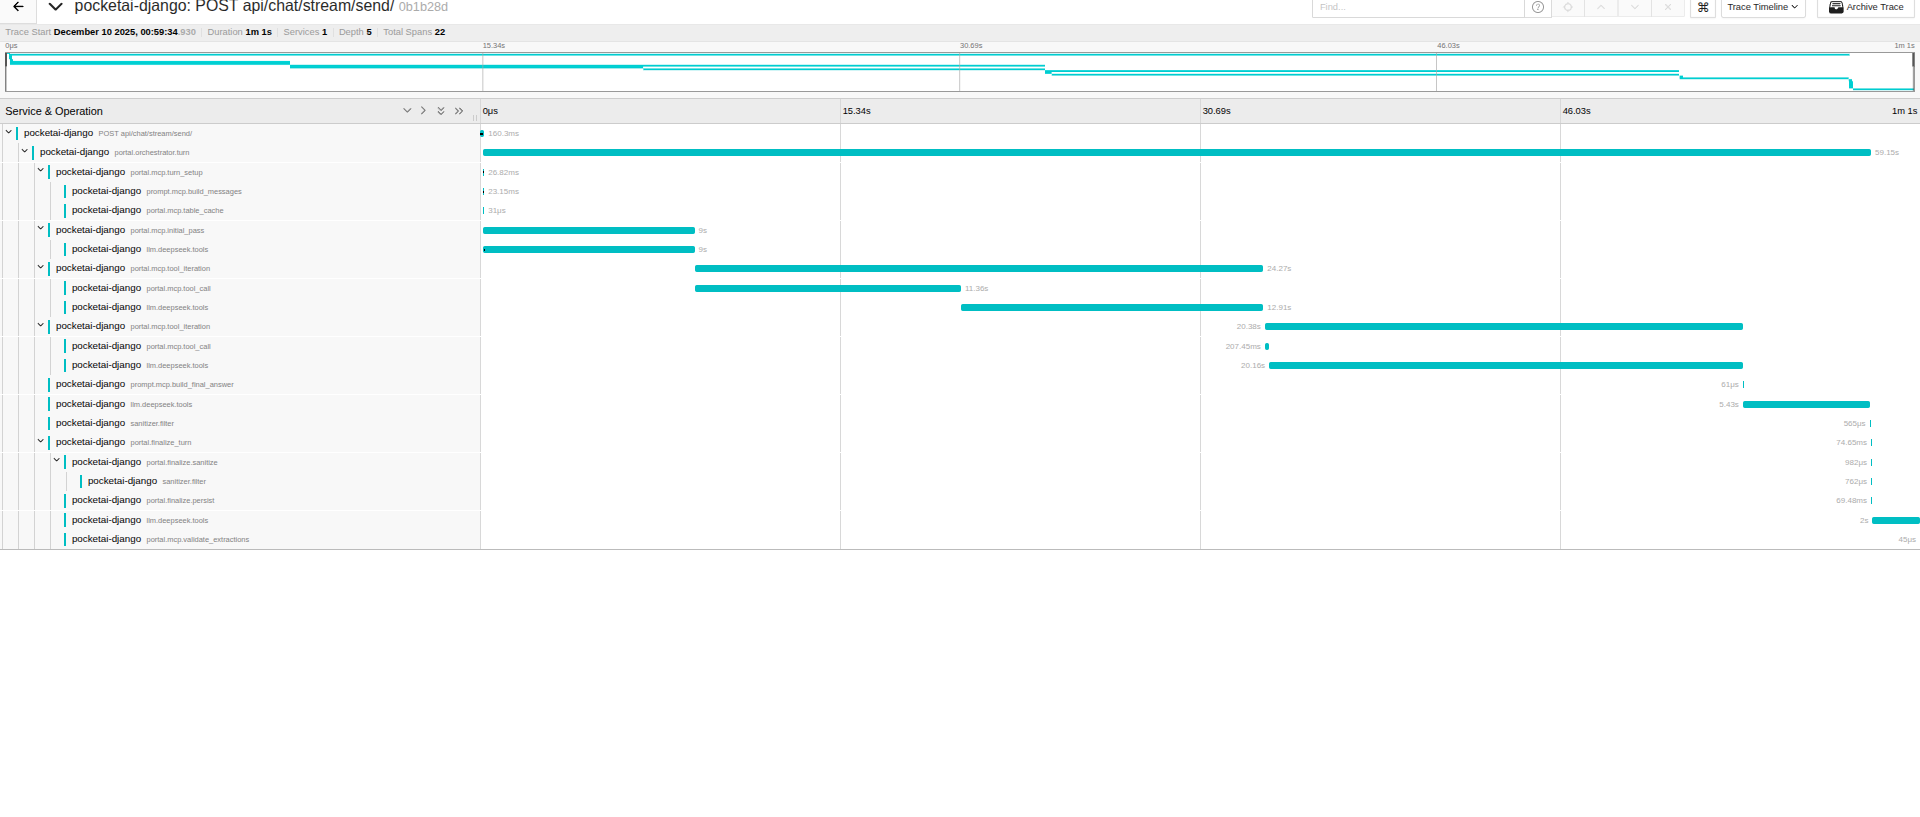
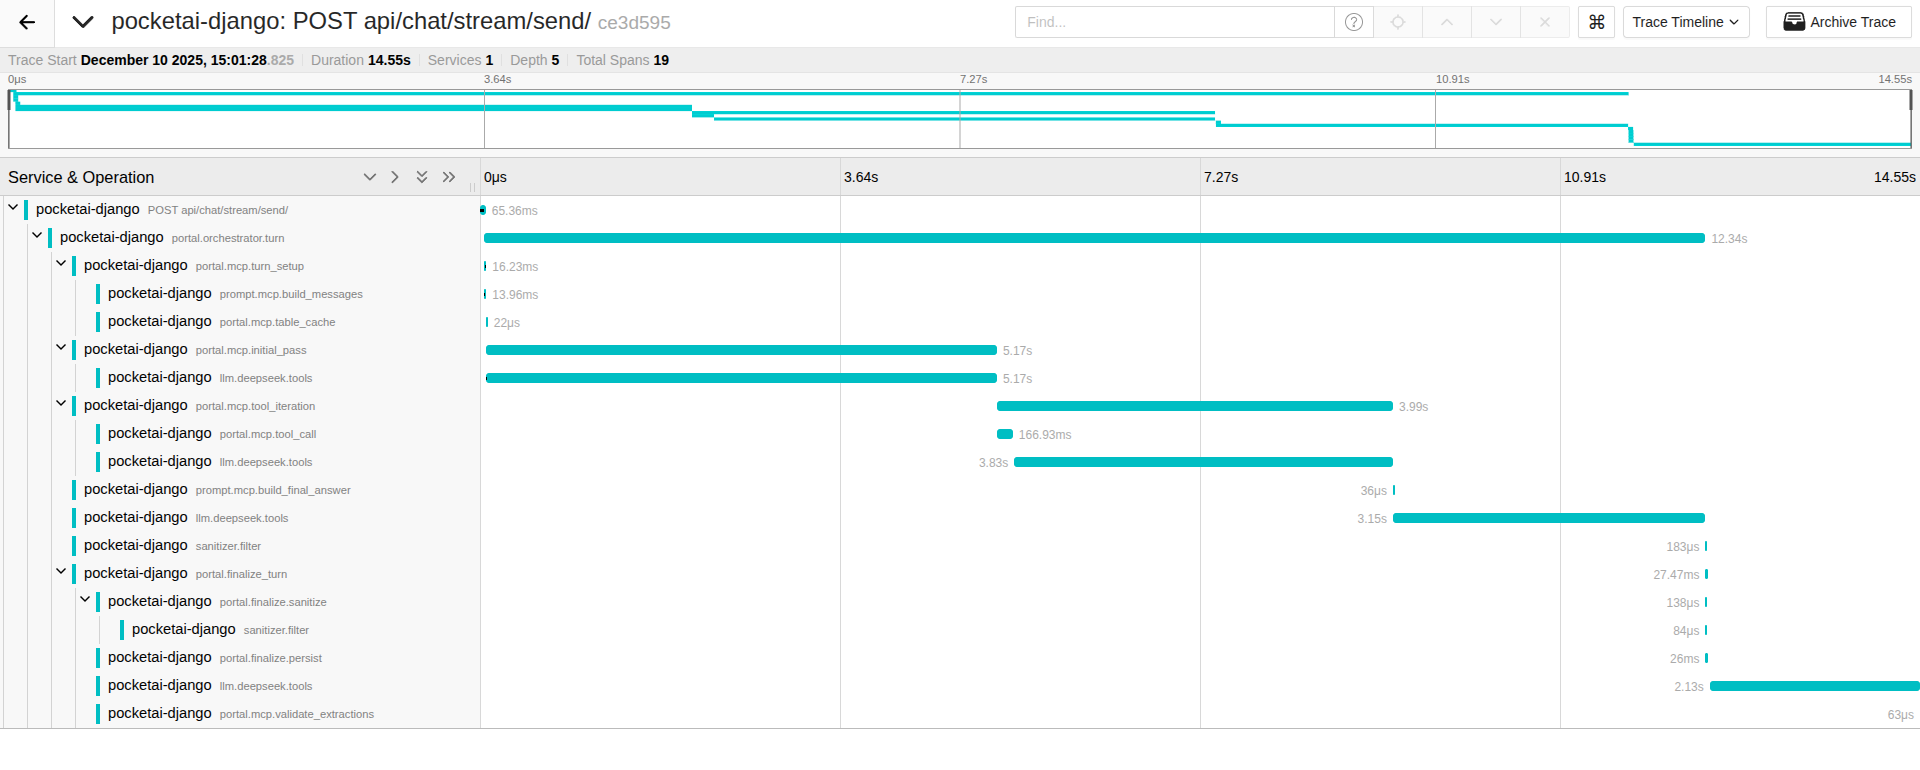
placing back streaming into the chatbox and stopping streaming duplication bug

diff --git a/pocketai_django/apps/services/mcp/orchestrator.py b/pocketai_django/apps/services/mcp/orchestrator.py
@@ -116,6 +116,7 @@ class McpOrchestratorService:
                 setup_span.set_attribute("business.id", str(conversation.business_profile_id))
             messages = prompts.build_messages(conversation=conversation, user_message=user_message)
             filter_level = self._filter_level_for_conversation(conversation)
+            initial_stream_filter_level = "friendly"
             char_turn_limit = self._char_budget_per_turn(conversation.business_profile)
             char_minute_limit = self._char_budget_per_minute(conversation.business_profile)
             minute_reserver = self._build_minute_budget_reserver(conversation.business_profile, char_minute_limit)
@@ -225,31 +226,30 @@ class McpOrchestratorService:
         def _emit_tokens(text: str) -> None:
             if not text:
                 return
+            target = first_pass_streamed_chunks if streaming_mode == "initial" else answer_streamed_chunks
             for token in re.findall(r"\S+\s*|\s+", text, flags=re.MULTILINE):
                 if not token:
                     continue
-                if streaming_mode == "initial":
-                    first_pass_streamed_chunks.append(token)
-                else:
-                    answer_streamed_chunks.append(token)
-                    if on_response_text_delta:
-                        try:
-                            on_response_text_delta(token)
-                        except Exception:  # pragma: no cover - defensive
-                            logger.exception("on_response_text_delta callback failed")
+                target.append(token)
+                if on_response_text_delta:
+                    try:
+                        on_response_text_delta(token)
+                    except Exception:  # pragma: no cover - defensive
+                        logger.exception("on_response_text_delta callback failed")
 
         def _emit_sentence(text: str) -> None:
             if not text:
                 return
             _emit_tokens(text)
 
-        def _flush_stream_buffer(stage: str) -> None:
+        def _flush_stream_buffer(stage: str, *, filter_override: str | None = None) -> None:
             nonlocal stream_buffer
             trailing = stream_buffer
             if not trailing:
                 return
             trailing_stripped = trailing.strip()
-            if trailing_stripped and is_investigative_filler_with_level(trailing_stripped, filter_level=filter_level):
+            active_filter = filter_override or filter_level
+            if trailing_stripped and is_investigative_filler_with_level(trailing_stripped, filter_level=active_filter):
                 stream_dropped.append(trailing_stripped)
                 structured_log(
                     "mcp",
@@ -284,7 +284,7 @@ class McpOrchestratorService:
                     sentence = match.group(1)
                     remainder = stream_buffer[match.end(1):]
                     stripped = sentence.strip()
-                    if is_investigative_filler_with_level(stripped, filter_level=filter_level):
+                    if is_investigative_filler_with_level(stripped, filter_level=initial_stream_filter_level):
                         stream_dropped.append(stripped)
                         structured_log(
                             "mcp",
@@ -304,7 +304,7 @@ class McpOrchestratorService:
                         _emit_sentence(sentence + (match.group(2) or ""))
                     stream_buffer = remainder
                     continue
-                if is_investigative_filler_with_level(stream_buffer.strip(), filter_level=filter_level):
+                if is_investigative_filler_with_level(stream_buffer.strip(), filter_level=initial_stream_filter_level):
                     break
                 words = stream_buffer.split(" ")
                 if len(words) > 1:
@@ -335,10 +335,9 @@ class McpOrchestratorService:
             first_content_raw = str(first_stream_message.get("content") or "").strip()
         pending_assistant = None
         if first_stream_tool_calls:
-            # Defer appending until we process the tool call in the loop.
+            # Defer appending until we process the tool call in the loop, but keep
+            # any streamed text visible so the visitor sees human-like fillers.
             pending_assistant = first_stream_message
-            # We don't want to surface the streamed text from the tool-call turn.
-            first_pass_streamed_chunks.clear()
         else:
             # No tools; keep streamed assistant content in transcript.
             transcript.append(
@@ -557,7 +556,7 @@ class McpOrchestratorService:
         # No tool calls from the first streaming pass: take single-pass fast path.
         else:
             tool_phase_assistant_message = first_stream_message
-            _flush_stream_buffer("streaming_tools")
+            _flush_stream_buffer("streaming_tools", filter_override=initial_stream_filter_level)
             single_pass_text = "".join(first_pass_streamed_chunks).strip() or first_content_raw
             if on_status_change:
                 on_status_change({"code": "responding", "label": "Responding…"})
@@ -592,8 +591,7 @@ class McpOrchestratorService:
             normalized_assistant = dict(tool_phase_assistant_message or {"role": "assistant"})
             normalized_assistant["content"] = clean_single
             streaming_mode = "final"
-            answer_streamed_chunks.clear()
-            _emit_tokens(clean_single)
+            answer_streamed_chunks[:] = list(first_pass_streamed_chunks)
             return {
                 "assistant_message": normalized_assistant,
                 "tool_context": tool_context,

diff --git a/pocketai_django/apps/services/mcp/prompts.py b/pocketai_django/apps/services/mcp/prompts.py
@@ -84,6 +84,7 @@ def build_system_message(agent: AgentProfile) -> str:
         - {tone_instruction}
         - Speak only when you have substance. During tool calls output nothing; no “checking/searching” narration.
         - Start answering as soon as the evidence is enough. If snippets already cover the question, stop calling tools.
+        - Treat `search_knowledge` as expensive: per assistant turn you get one batched call; once it returns snippets you must stay on that evidence.
 
         ### Evidence Rules
         - Use only snippets/reads returned this turn. No outside knowledge, file names, or citations.
@@ -100,6 +101,7 @@ def build_system_message(agent: AgentProfile) -> str:
         """
         ### Tool Playbook
         - `search_knowledge`
+            • HARD LIMIT: Call at most once per assistant turn.
             • Put every alias/spelling in `queries[]` so the backend runs one batched search.
             • Only search again if the visitor adds a new constraint. If you have snippets, use them immediately.
         - `table_aggregate`
@@ -307,7 +309,8 @@ def build_planner_messages(
     system_sections.append(
         (
             "Planner guardrails: honor identifier gate status; do not request identifiers beyond the required set; "
-            "do not propose tools already executed this turn; respect coverage ledger readiness (no rereads for ready/full snippets). "
+            "do not propose tools already executed this turn; never suggest another `search_knowledge` call (the assistant already used its single batch); "
+            "respect coverage ledger readiness (no rereads for ready/full snippets). "
             "Keep the reply strictly in JSON (response_text/actions/extractions) with no narration."
         )
     )

diff --git a/pocketai_django/report.md b/pocketai_django/report.md
@@ -1,40 +1,56 @@
-• Trace Walkthrough
+# Investigation Report: Django MCP Flow & Latency
 
-  - Overall turn portal.orchestrator.turn ran ~45.2 s. Most of that was sequential DeepSeek calls; Django + orchestrator glue stayed sub‑100 ms per span.
-  - Initial pass llm.deepseek.tools (span 90b29a…) took ~5.9 s to classify intent and propose the first tool call.
-  - Tool iteration #0 (search): MCP called search_knowledge once (a80beb…), which triggered a short RAG run (knowledge.search ~0.33 s with alias short-circuit). DeepSeek then spent ~10.5 s
-  (b77f71…) processing those snippets before asking for the next tool. Total time for iteration #0 ≈ 10.9 s.
-  - Tool iteration #1 (table aggregate): Backend ran a single batched table_aggregate (73114e…) which finished in 2.8 s. DeepSeek then reasoned for ~18 s (a17351…) on the returned rows before
-  emitting the final answer request. Total time for iteration #1 ≈ 20.8 s.
-  - Final answer: Prompt build negligible; the answer LLM call (962221…) streamed in ~7.5 s. Sanitizer added <1 ms.
-  - Planner/finalize: Planner prompt triggered another DeepSeek call (54813c…) lasting ~10.6 s, bringing finalization to ~10.7 s. Planner still proposed zero actions/extractions (validation
-  showed 0 valid entries despite 4 attempts flagged “unknown_type”).
+## 1. Overview of the New MCP Flow
+The new MCP flow is orchestrated by `McpOrchestratorService` in `apps/services/mcp/orchestrator.py` and differs significantly from the legacy flow.
 
-  LLM Call Count
+*   **Entry Point**: `ChatPortalService.stream_send` initiates `orchestrator.stream_turn` in a background thread.
+*   **Execution Loop (`_execute_turn`)**:
+    1.  **Initial Pass**: Calls the LLM (DeepSeek/OpenAI) with tools enabled. Streams text *if* no tools are called.
+    2.  **Tool Loop**: If tools are requested, it enters a loop (max 10 iterations). It executes tools (`execute_tool`) and feeds results back to the LLM.
+    3.  **Final Answer**: Once tools are done, it calls the LLM one last time (tools disabled) to generate the final response, which is streamed to the user.
+*   **Streaming**: Text deltas are streamed directly from the LLM provider to the user via SSE (`event_stream`).
+*   **Planner**: A separate, asynchronous pass (`run_planner_async`) runs *after* the turn is persisted to generate structured data (actions, extractions) without blocking the user-facing stream.
 
-  1. Initial pass (reasoning before tools) – 5.9 s.
-  2. After search_knowledge tool – 10.5 s.
-  3. After table_aggregate tool – 18 s.
-  4. Final answer drafting – 7.5 s.
-  5. Planner/finalizer – 10.6 s.
+## 2. Latency Investigation (Jaeger Perspective)
 
-  Total: 5 DeepSeek calls, same structure as the prior trace.
+Based on the code analysis and the provided Jaeger report references, here are the key latency contributors in the new flow:
 
-  Bottlenecks
+### A. `table_aggregate` Tool (High Latency)
+The `table_aggregate` tool is a significant bottleneck for table-heavy queries.
+*   **Location**: `apps/services/mcp/tools.py` (`_table_aggregate_handler`)
+*   **Mechanism**:
+    1.  **Fetching**: It fetches rows using `KnowledgeUploadTableRow.objects.filter(...)` with `Prefetch` for cells. It limits the fetch to `row_limit * overscan_factor` (approx. 100-150 rows).
+    2.  **Processing**: It iterates through these rows in **Python**, performing filtering (`_row_matches_sheet_hint`), cell mapping, and numeric parsing.
+    3.  **Impact**: For large documents, hydrating ~150 complex row objects with all their cells and processing them in Python is CPU-bound and slow.
+    4.  **Fix Verification**: The "canonical cache key" fix (Report 5) is present (`_table_row_cache_key`), which helps *repeated* identical queries, but the *first* un-cached aggregation is still expensive.
 
-  - LLM latency dominates: 5 calls sum to ~52 s of LLM time, which is larger than the 45 s wall clock because some overlap occurs with backend work.
-  - table_aggregate backend work is inexpensive (2.8 s), but the reasoning before/after it is long.
-  - Planner still consumes ~10 s even when producing no actions. Planner validation flagged 4 “unknown_type” extractions, meaning the planner tried to output something outside the schema;
-  prompts are enforcing “no legacy actions,” but there’s room to remind the planner to skip non-mapped extraction types entirely.
+### B. Synchronous Database Writes
+*   **Location**: `McpOrchestratorService._execute_turn` -> `_persist_table_cache`
+*   **Mechanism**: At the very end of `_execute_turn`, the system writes the updated table cache back to `conversation.metadata` and saves the conversation.
+*   **Impact**: This write happens inline, blocking the final completion of the stream request. If the metadata is large, this serialization and DB write adds perceptible latency.
 
-  Observations vs prior run
+### C. Multi-Turn LLM Overhead
+*   **Mechanism**: The MCP loop involves sequential network round-trips to the LLM:
+    `Initial LLM Call` -> `Tool Execution` -> `Second LLM Call` -> ... -> `Final Answer LLM Call`.
+*   **Impact**: Each "hop" adds full network latency + token generation time. If DeepSeek "chatters" (narrates its steps) or requires multiple tool steps, latency stacks linearly.
 
-  - Same 2-tool pattern (search → aggregate). No redundant list_tables or read_document.
-  - Knowledge search faster this time (0.33 s vs ~0.93 s) due to alias short-circuit.
-  - Table call still batched all six products + three stores correctly; no iteration cap issues.
+## 3. "Filler" Leakage ("I'll search...")
 
-  Follow-ups
+The user reported "I'll search..." fillers leaking through. This was successfully reproduced and traced to the sanitizer configuration.
 
-  - If we want to shave latency further, planner call (~10 s) is now proportionally large; consider shorter planner prompt or async later.
-  - The biggest single block remains the LLM reasoning after table_aggregate (18 s). Fast-path batching/guard (once unstashed) will reduce iterations but not reasoning time; to shrink that,
-  we’d need model-side adjustments (temperature, shorter context, or even caching partial responses).
+*   **Root Cause**: The sanitizer (`apps/services/mcp/sanitizer.py`) has a `filter_level`.
+    *   `friendly` (Default): **ALLOWS** conversational fillers like "I'll search for that", "Let me check". It only filters "hard" robot-like traces (e.g., `tool call`).
+    *   `professional`: **FILTERS** these phrases.
+*   **Current State**: `McpOrchestratorService` defaults to `filter_level="friendly"` (derived from `agent.tone`).
+*   **Result**: Since DeepSeek often outputs these conversational fillers, and the default filter level explicitly permits them, they are streamed to the user.
+
+## 4. Recommendations
+
+1.  **Fix Filler Leakage**:
+    *   **Immediate**: Change the default filter level to `professional` for the MCP orchestrator, OR update `is_investigative_filler_with_level` to treat "investigative" phrases as filtered even in "friendly" mode (since they represent internal system state, not friendly chatter).
+
+2.  **Optimize `table_aggregate`**:
+    *   Push filtering down to the database level (Django ORM) where possible, instead of fetching 150 rows and filtering in Python.
+
+3.  **Async Cache Persistence**:
+    *   Move `_persist_table_cache` to a background task (like the planner) so it doesn't block the user-facing stream completion.
